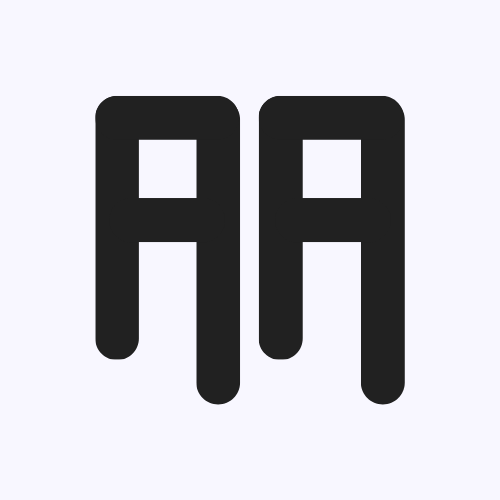
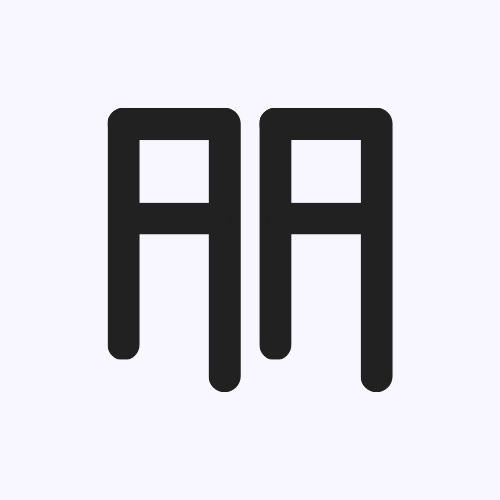
new webicon

diff --git a/index.html b/index.html
@@ -3,6 +3,7 @@
 <html lang="en">
 	<head>
 		<title>Andric Ang</title>
+		<link rel="icon" type="image/x-icon" href="/images/aa.png">
 		<meta charset="utf-8" />
 		<meta
 			name="viewport"

diff --git a/about.html b/about.html
@@ -1,6 +1,7 @@
 <html lang="en">
 	<head>
 		<title>About Me</title>
+		<link rel="icon" type="image/x-icon" href="/images/aa.png">
 		<meta charset="utf-8" />
 		<meta
 			name="viewport"
